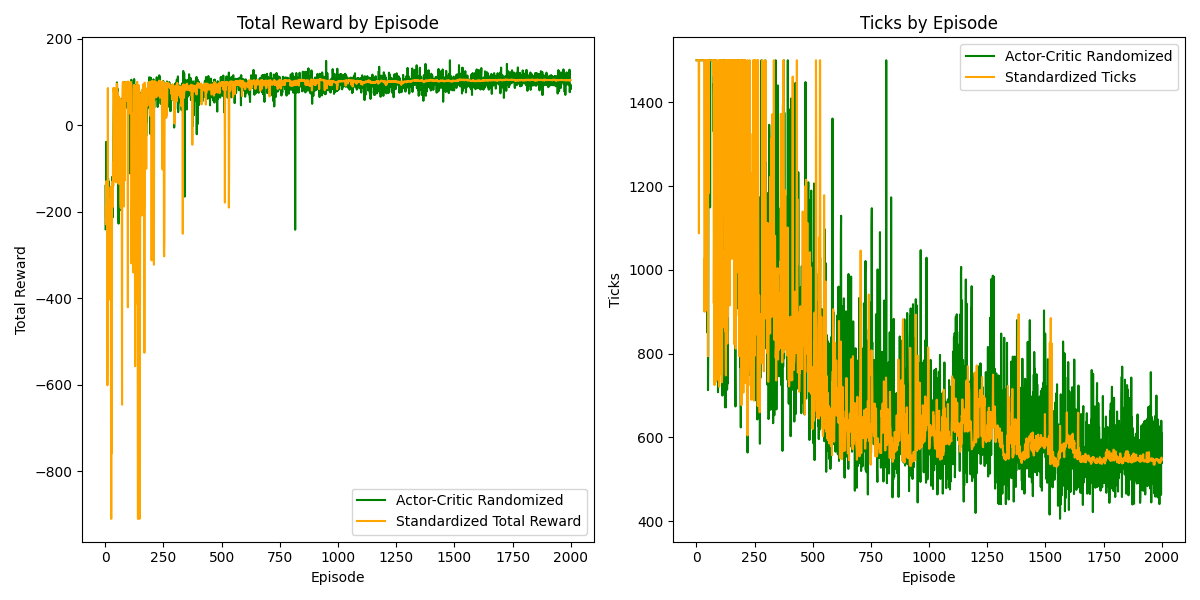
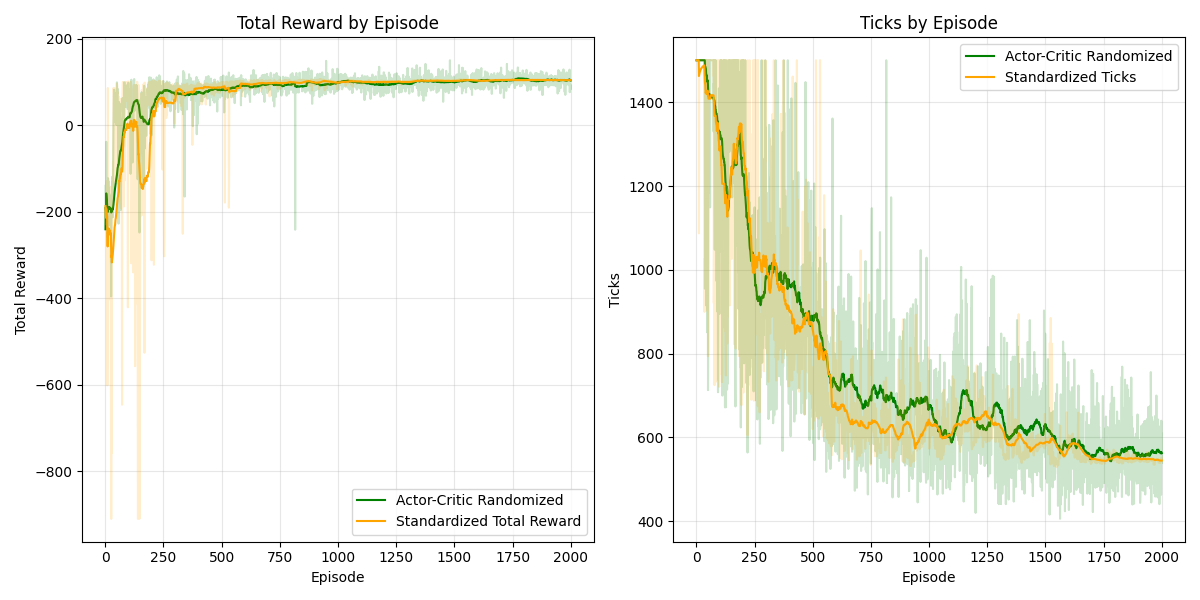
better graphs

Changed region(s): [[0.555, 0.09, 0.9867, 0.87], [0.0617, 0.09, 0.4933, 0.87]]

diff --git a/report/gen_graphs.py b/report/gen_graphs.py
@@ -1,174 +1,177 @@
 import matplotlib.pyplot as plt
 import csv
 
-reinforce_small_data = []
-with open('../logs/reinforce_small.csv', 'r') as csvfile:
-    reader = csv.DictReader(csvfile)
-    for row in reader:
-        reinforce_small_data.append({
-            "episode": int(row["episode"]),
-            "total_reward": float(row["total_reward"]),
-            "ticks": int(row["ticks"]),
-            "buoys_passed": int(row["buoys_passed"])
-        })
+def load_csv(path):
+    data = []
+    with open(path, 'r') as csvfile:
+        reader = csv.DictReader(csvfile)
+        for row in reader:
+            d = {}
+            for k, v in row.items():
+                try:
+                    d[k] = int(v)
+                except ValueError:
+                    try:
+                        d[k] = float(v)
+                    except ValueError:
+                        d[k] = v
+            data.append(d)
+    return data
 
-reinforce_big_data = []
-with open('../logs/reinforce_big.csv', 'r') as csvfile:
-    reader = csv.DictReader(csvfile)
-    for row in reader:
-        reinforce_big_data.append({
-            "episode": int(row["episode"]),
-            "total_reward": float(row["total_reward"]),
-            "ticks": int(row["ticks"]),
-            "buoys_passed": int(row["buoys_passed"])
-        })
+def plot_smooth(x, y, label, color, window=50):
+    smoothed = [sum(y[max(0, i-window+1):i+1]) / len(y[max(0, i-window+1):i+1]) for i in range(len(y))]
+    plt.plot(x, y, color=color, alpha=0.2)
+    plt.plot(x, smoothed, label=label, color=color, linewidth=1.5)
 
-actorcritic_oldcourse_data = []
-with open('../logs/actorcritic_logs_oldcourse.csv', 'r') as csvfile:
-    reader = csv.DictReader(csvfile)
-    for row in reader:
-        actorcritic_oldcourse_data.append({
-            "episode": int(row["episode"]),
-            "total_reward": float(row["total_reward"]),
-            "ticks": int(row["ticks"]),
-            "buoys_passed": int(row["buoys_passed"]),
-            "learning_rate": float(row["learning_rate"]),
-            "entropy_coef": float(row["entropy_coef"])
-        })
-
-actorcritic_data = []
-with open('../logs/actorcritic.csv', 'r') as csvfile:
-    reader = csv.DictReader(csvfile)
-    for row in reader:
-        actorcritic_data.append({
-            "episode": int(row["episode"]),
-            "total_reward": float(row["total_reward"]),
-            "ticks": int(row["ticks"]),
-            "buoys_passed": int(row["buoys_passed"]),
-            "learning_rate": float(row["learning_rate"]),
-            "entropy_coef": float(row["entropy_coef"])
-        })
-
-actorcritic_batched_data = []
-with open('../logs/actorcritic_batched.csv', 'r') as csvfile:
-    reader = csv.DictReader(csvfile)
-    for row in reader:
-        actorcritic_batched_data.append({
-            "episode": int(row["episode"]),
-            "total_reward": float(row["total_reward"]),
-            "ticks": int(row["ticks"]),
-            "buoys_passed": int(row["buoys_passed"]),
-            "learning_rate": float(row["learning_rate"]),
-            "entropy_coef": float(row["entropy_coef"])
-        })
-
-actorcritic_randomized_data = []
-with open('../logs/actorcritic_randomized.csv', 'r') as csvfile:
-    reader = csv.DictReader(csvfile)
-    for row in reader:
-        actorcritic_randomized_data.append({
-            "episode": int(row["episode"]),
-            "total_reward": float(row["total_reward"]),
-            "ticks": int(row["ticks"]),
-            "buoys_passed": int(row["buoys_passed"]),
-            "std_total_reward": float(row["std_total_reward"]),
-            "std_ticks": float(row["std_ticks"]),
-            "std_buoys_passed": float(row["std_buoys_passed"]),
-            "learning_rate": float(row["learning_rate"]),
-            "entropy_coef": float(row["entropy_coef"])
-        })
-
-# generates graph of reward and time by episode of big and small reinforce
-# shows nothign if not available for that episode
+reinforce_small_data = load_csv('../logs/reinforce_small.csv')
+reinforce_big_data = load_csv('../logs/reinforce_big.csv')
+actorcritic_oldcourse_data = load_csv('../logs/actorcritic_logs_oldcourse.csv')
+actorcritic_data = load_csv('../logs/actorcritic.csv')
+actorcritic_batched_data = load_csv('../logs/actorcritic_batched.csv')
+actorcritic_randomized_data = load_csv('../logs/actorcritic_randomized.csv')
+actorcritic_2buoy = load_csv('../logs/actorcritic_2buoy.csv')
 
 plt.figure(figsize=(12, 6))
 plt.subplot(1, 2, 1)
 plt.title("Total Reward by Episode")
-plt.plot([d["episode"] for d in reinforce_big_data], [d["total_reward"] for d in reinforce_big_data], label="Reinforce Big", color='orange')
-plt.plot([d["episode"] for d in reinforce_small_data], [d["total_reward"] for d in reinforce_small_data], label="Reinforce Small", color='blue')
-
-#save plot
+plot_smooth([d["episode"] for d in reinforce_big_data], [d["total_reward"] for d in reinforce_big_data], "Reinforce Big", 'orange')
+plot_smooth([d["episode"] for d in reinforce_small_data], [d["total_reward"] for d in reinforce_small_data], "Reinforce Small", 'blue')
 plt.xlabel("Episode")
 plt.ylabel("Total Reward")
 plt.legend()
+plt.grid(True, alpha=0.3)
+
 plt.subplot(1, 2, 2)
 plt.title("Ticks by Episode")
-plt.plot([d["episode"] for d in reinforce_big_data], [d["ticks"] for d in reinforce_big_data], label="Reinforce Big", color='orange')
-plt.plot([d["episode"] for d in reinforce_small_data], [d["ticks"] for d in reinforce_small_data], label="Reinforce Small", color='blue')
+plot_smooth([d["episode"] for d in reinforce_big_data], [d["ticks"] for d in reinforce_big_data], "Reinforce Big", 'orange')
+plot_smooth([d["episode"] for d in reinforce_small_data], [d["ticks"] for d in reinforce_small_data], "Reinforce Small", 'blue')
 plt.xlabel("Episode")
 plt.ylabel("Ticks")
 plt.legend()
+plt.grid(True, alpha=0.3)
 plt.tight_layout()
 plt.savefig("reinforce_comparison.png")
 
-# comparison of reinforce_small and old course actor critic (ticks)
 plt.figure(figsize=(12, 6))
 plt.subplot(1, 2, 1)
 plt.title("Ticks by Episode")
-plt.plot([d["episode"] for d in reinforce_small_data], [d["ticks"] for d in reinforce_small_data], label="Reinforce Small", color='blue')
-plt.plot([d["episode"] for d in actorcritic_oldcourse_data], [d["ticks"] for d in actorcritic_oldcourse_data], label="Actor-Critic Old Course", color='green')
+plot_smooth([d["episode"] for d in reinforce_small_data], [d["ticks"] for d in reinforce_small_data], "Reinforce Small", 'blue')
+plot_smooth([d["episode"] for d in actorcritic_oldcourse_data], [d["ticks"] for d in actorcritic_oldcourse_data], "Actor-Critic Old Course", 'green')
 plt.xlabel("Episode")
 plt.ylabel("Ticks")
 plt.legend()
+plt.grid(True, alpha=0.3)
+
 plt.subplot(1, 2, 2)
 plt.title("Buoys Passed by Episode")
-plt.plot([d["episode"] for d in reinforce_small_data], [d["buoys_passed"] for d in reinforce_small_data], label="Reinforce Small", color='blue')
-plt.plot([d["episode"] for d in actorcritic_oldcourse_data], [d["buoys_passed"] for d in actorcritic_oldcourse_data], label="Actor-Critic Old Course", color='green')
+plot_smooth([d["episode"] for d in reinforce_small_data], [d["buoys_passed"] for d in reinforce_small_data], "Reinforce Small", 'blue')
+plot_smooth([d["episode"] for d in actorcritic_oldcourse_data], [d["buoys_passed"] for d in actorcritic_oldcourse_data], "Actor-Critic Old Course", 'green')
 plt.xlabel("Episode")
 plt.ylabel("Buoys Passed")
 plt.legend()
+plt.grid(True, alpha=0.3)
 plt.tight_layout()
 plt.savefig("reinforce_vs_actorcritic_oldcourse.png")
 
-# graph of rewards, ticks, and buoys passed by episode for actorcritic
 plt.figure(figsize=(12, 6))
 plt.subplot(1, 2, 1)
 plt.title("Total Reward by Episode")
-plt.plot([d["episode"] for d in actorcritic_data], [d["total_reward"] for d in actorcritic_data], label="Actor-Critic", color='green')
+plot_smooth([d["episode"] for d in actorcritic_data], [d["total_reward"] for d in actorcritic_data], "Actor-Critic", 'green')
 plt.xlabel("Episode")
 plt.ylabel("Total Reward")
 plt.legend()
+plt.grid(True, alpha=0.3)
+
 plt.subplot(1, 2, 2)
 plt.title("Ticks by Episode")
-plt.plot([d["episode"] for d in actorcritic_data], [d["ticks"] for d in actorcritic_data], label="Actor-Critic", color='green')
+plot_smooth([d["episode"] for d in actorcritic_data], [d["ticks"] for d in actorcritic_data], "Actor-Critic", 'green')
 plt.xlabel("Episode")
 plt.ylabel("Ticks")
 plt.legend()
+plt.grid(True, alpha=0.3)
 plt.tight_layout()
 plt.savefig("actorcritic_comparison.png")
 
-# graph of rewards, ticks, and buoys passed by episode for actorcritic-batched
 plt.figure(figsize=(12, 6))
 plt.subplot(1, 2, 1)
 plt.title("Total Reward by Episode")
-plt.plot([d["episode"] for d in actorcritic_batched_data], [d["total_reward"] for d in actorcritic_batched_data], label="Actor-Critic", color='green')
+plot_smooth([d["episode"] for d in actorcritic_batched_data], [d["total_reward"] for d in actorcritic_batched_data], "Actor-Critic", 'blue')
 plt.xlabel("Episode")
 plt.ylabel("Total Reward")
 plt.legend()
+plt.grid(True, alpha=0.3)
+
 plt.subplot(1, 2, 2)
 plt.title("Ticks by Episode")
-plt.plot([d["episode"] for d in actorcritic_batched_data], [d["ticks"] for d in actorcritic_batched_data], label="Actor-Critic", color='green')
+plot_smooth([d["episode"] for d in actorcritic_batched_data], [d["ticks"] for d in actorcritic_batched_data], "Actor-Critic", 'blue')
 plt.xlabel("Episode")
 plt.ylabel("Ticks")
 plt.legend()
+plt.grid(True, alpha=0.3)
 plt.tight_layout()
 plt.savefig("actorcritic_batched_comparison.png")
 
-# graph of rewards, standard rewards, standard ticks for actorcritic-randomized
 plt.figure(figsize=(12, 6))
 plt.subplot(1, 2, 1)
 plt.title("Total Reward by Episode")
-plt.plot([d["episode"] for d in actorcritic_randomized_data], [d["total_reward"] for d in actorcritic_randomized_data], label="Actor-Critic Randomized", color='green')
-plt.plot([d["episode"] for d in actorcritic_randomized_data], [d["std_total_reward"] for d in actorcritic_randomized_data], label="Standardized Total Reward", color='orange')
+plot_smooth([d["episode"] for d in actorcritic_randomized_data], [d["total_reward"] for d in actorcritic_randomized_data], "Actor-Critic Randomized", 'green')
+plot_smooth([d["episode"] for d in actorcritic_randomized_data], [d["std_total_reward"] for d in actorcritic_randomized_data], "Standardized Total Reward", 'orange')
 plt.xlabel("Episode")
 plt.ylabel("Total Reward")
 plt.legend()
+plt.grid(True, alpha=0.3)
+
 plt.subplot(1, 2, 2)
 plt.title("Ticks by Episode")
-plt.plot([d["episode"] for d in actorcritic_randomized_data], [d["ticks"] for d in actorcritic_randomized_data], label="Actor-Critic Randomized", color='green')
-plt.plot([d["episode"] for d in actorcritic_randomized_data], [d["std_ticks"] for d in actorcritic_randomized_data], label="Standardized Ticks", color='orange')
+plot_smooth([d["episode"] for d in actorcritic_randomized_data], [d["ticks"] for d in actorcritic_randomized_data], "Actor-Critic Randomized", 'green')
+plot_smooth([d["episode"] for d in actorcritic_randomized_data], [d["std_ticks"] for d in actorcritic_randomized_data], "Standardized Ticks", 'orange')
 plt.xlabel("Episode")
 plt.ylabel("Ticks")
 plt.legend()
+plt.grid(True, alpha=0.3)
 plt.tight_layout()
 plt.savefig("actorcritic_randomized_comparison.png")
+
+plt.figure(figsize=(12, 6))
+plt.subplot(1, 2, 1)
+plt.title("Total Reward by Episode")
+plot_smooth([d["episode"] for d in actorcritic_2buoy], [d["total_reward"] for d in actorcritic_2buoy], "Actor-Critic 2 Buoy", 'green')
+plot_smooth([d["episode"] for d in actorcritic_2buoy], [d["std_total_reward"] for d in actorcritic_2buoy], "Standardized Total Reward", 'orange')
+plt.xlabel("Episode")
+plt.ylabel("Total Reward")
+plt.legend()
+plt.grid(True, alpha=0.3)
+
+plt.subplot(1, 2, 2)
+plt.title("Ticks by Episode")
+plot_smooth([d["episode"] for d in actorcritic_2buoy], [d["ticks"] for d in actorcritic_2buoy], "Actor-Critic 2 Buoy", 'green')
+plot_smooth([d["episode"] for d in actorcritic_2buoy], [d["std_ticks"] for d in actorcritic_2buoy], "Standardized Ticks", 'orange')
+plt.xlabel("Episode")
+plt.ylabel("Ticks")
+plt.legend()
+plt.grid(True, alpha=0.3)
+plt.tight_layout()
+plt.savefig("actorcritic_2buoy_comparison.png")
+
+plt.figure(figsize=(12, 6))
+plt.subplot(1, 2, 1)
+plt.title("Standardized Total Reward by Episode")
+plot_smooth([d["episode"] for d in actorcritic_data], [d["total_reward"] for d in actorcritic_data], "Actor-Critic", 'green')
+plot_smooth([d["episode"] for d in actorcritic_batched_data], [d["total_reward"] for d in actorcritic_batched_data], "Actor-Critic Batched", 'blue')
+plot_smooth([d["episode"] for d in actorcritic_randomized_data], [d["std_total_reward"] for d in actorcritic_randomized_data], "Actor-Critic Randomized", 'orange')
+plt.xlabel("Episode")
+plt.ylabel("Total Reward")
+plt.legend()
+plt.grid(True, alpha=0.3)
+
+plt.subplot(1, 2, 2)
+plt.title("Standardized Ticks by Episode")
+plot_smooth([d["episode"] for d in actorcritic_data], [d["ticks"] for d in actorcritic_data], "Actor-Critic", 'green')
+plot_smooth([d["episode"] for d in actorcritic_batched_data], [d["ticks"] for d in actorcritic_batched_data], "Actor-Critic Batched", 'blue')
+plot_smooth([d["episode"] for d in actorcritic_randomized_data], [d["std_ticks"] for d in actorcritic_randomized_data], "Actor-Critic Randomized", 'orange')
+plt.xlabel("Episode")
+plt.ylabel("Ticks")
+plt.legend()
+plt.grid(True, alpha=0.3)
+plt.tight_layout()
+plt.savefig("actorcritic_comparison_all.png")

diff --git a/train_actorcritic.py b/train_actorcritic.py
@@ -79,7 +79,7 @@ model = ActorCriticNetwork()
 optimizer = optim.Adam(model.parameters(), lr=0.0005)
 
 gamma = 0.99
-num_episodes = 1000
+num_episodes = 2000
 lr_scheduler = optim.lr_scheduler.CosineAnnealingLR(
     optimizer, T_max=num_episodes, eta_min=5e-5
 )

diff --git a/train_actorcritic_batched.py b/train_actorcritic_batched.py
@@ -80,7 +80,7 @@ model = ActorCriticNetwork()
 optimizer = optim.Adam(model.parameters(), lr=0.003)
 
 gamma = 0.99
-num_episodes = 1000
+num_episodes = 2000
 lr_scheduler = optim.lr_scheduler.CosineAnnealingLR(
     optimizer, T_max=num_episodes, eta_min=1e-5
 )
